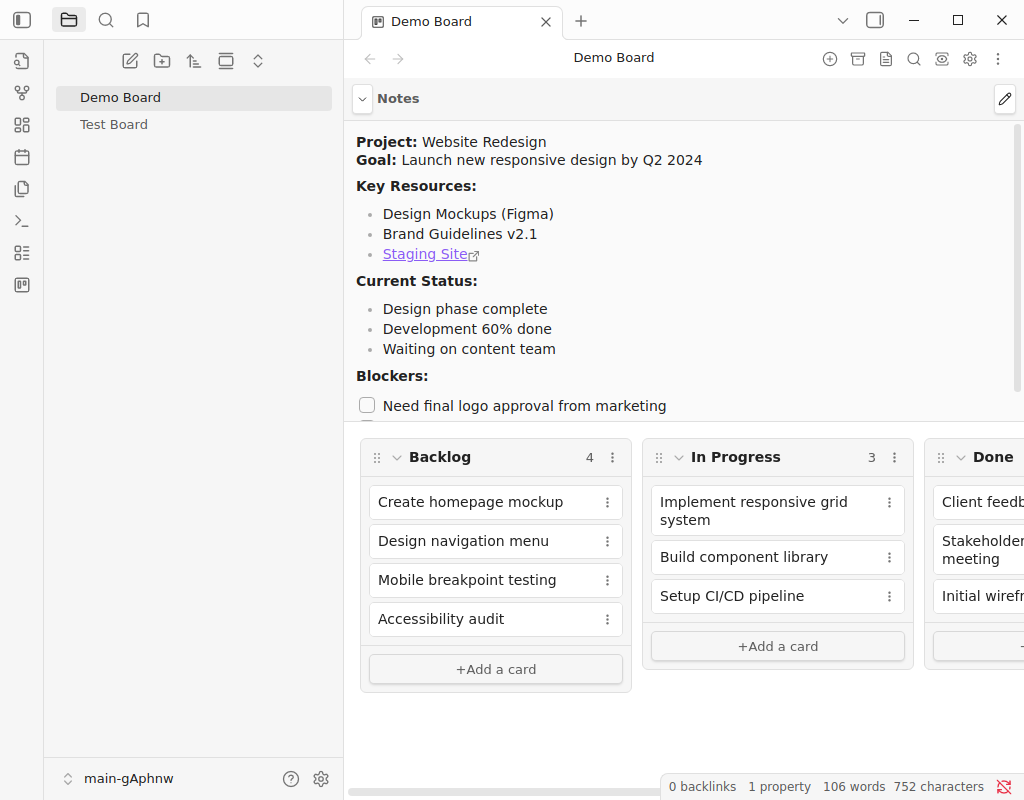
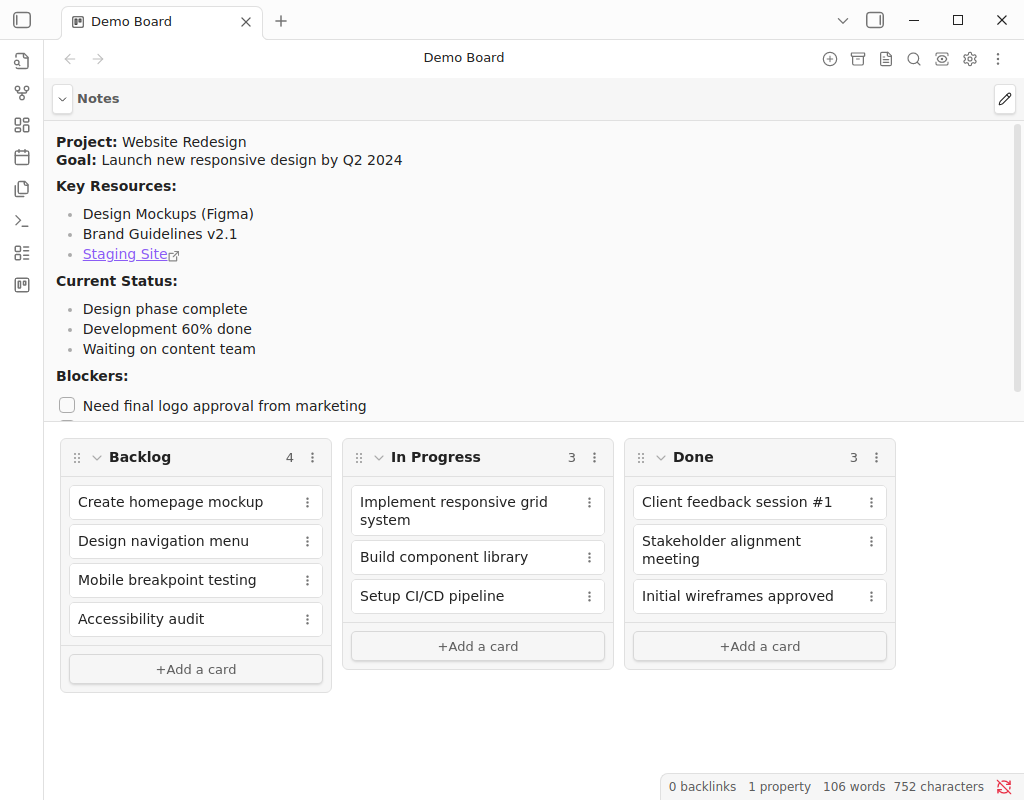
Fix board screenshot to hide sidebar and show all columns

diff --git a/test/specs/fix-board-screenshot.e2e.ts b/test/specs/fix-board-screenshot.e2e.ts
@@ -18,6 +18,12 @@ describe('Fix Board Screenshot', function() {
         });
         await browser.pause(1000);
 
+        // Hide left sidebar for cleaner screenshot
+        await browser.execute(async () => {
+            app.workspace.leftSplit.collapse();
+        });
+        await browser.pause(500);
+
         // Open Demo Board
         await browser.execute(async () => {
             const file = app.vault.getAbstractFileByPath("Demo Board.md");

diff --git a/README.md b/README.md
@@ -9,7 +9,7 @@ Enhanced fork of [obsidian-kanban](https://github.com/mgmeyers/obsidian-kanban) 
 
 ## Board Notes in Action
 
-![Board with Notes](docs/board-with-notes-crop.png)
+![Board with Notes](docs/board-with-notes.png)
 *Add project context, goals, checklists, and links directly above your Kanban columns*
 
 ---
